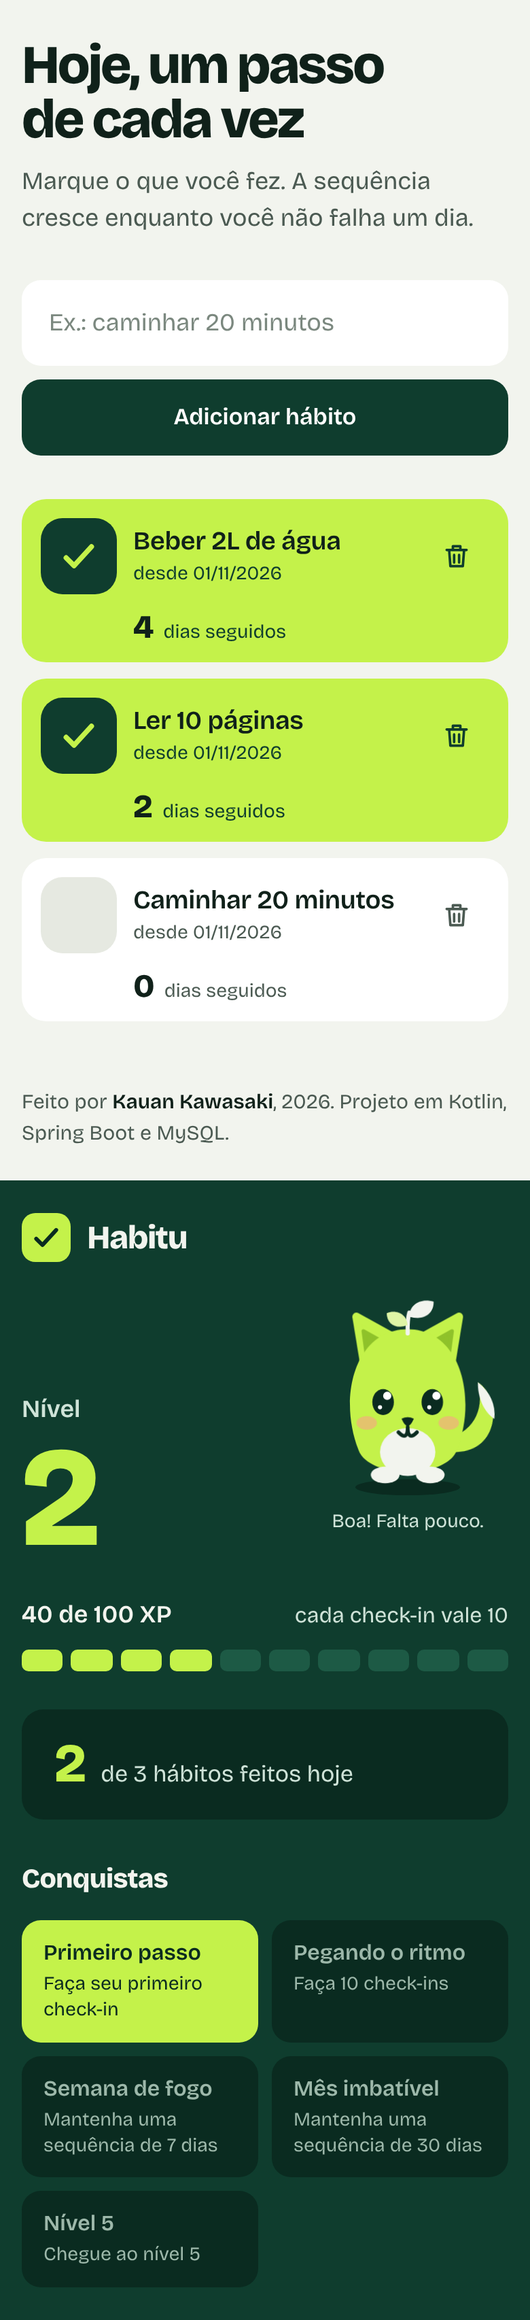
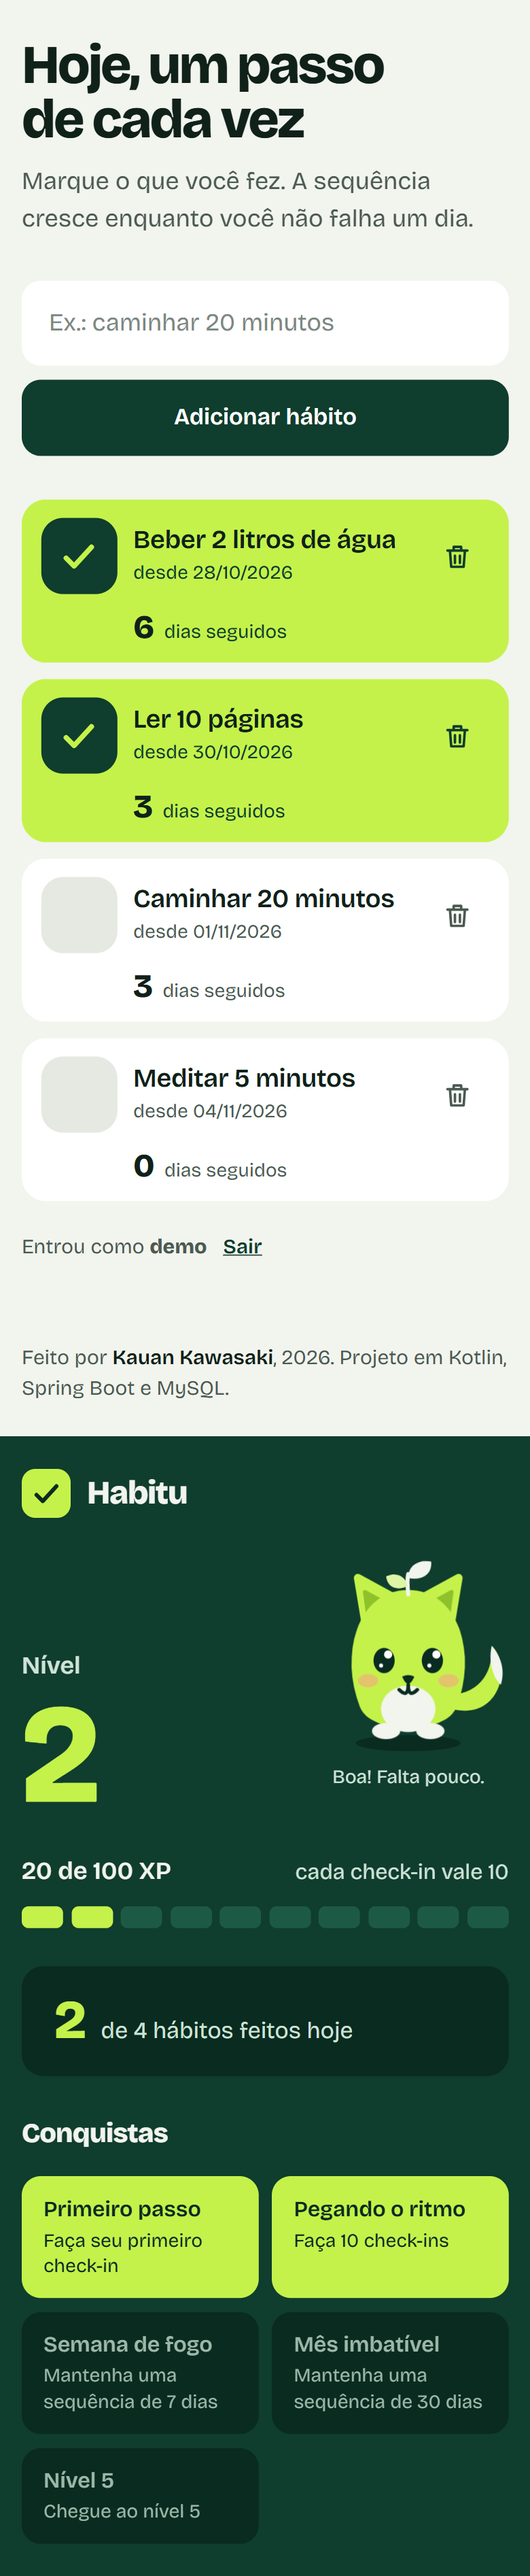
Atualiza os prints do README com a versao com login
Refaz tela principal, celular e tela vazia no app com conta de exemplo
e adiciona o print da tela de login.

diff --git a/README.md b/README.md
@@ -37,7 +37,11 @@ Ele também pisca, abana o rabo, respira, e as pupilas seguem o mouse. Ao tocar 
 | :---: | :---: |
 | ![Habitu no celular](docs/img/celular.png) | ![Tela vazia](docs/img/tela-vazia.png) |
 
-Os prints são renders da própria interface com dados de exemplo.
+Login (a tela de cadastro segue o mesmo visual):
+
+![Tela de login](docs/img/tela-login.png)
+
+Os prints são da própria interface, com uma conta de exemplo.
 
 ## Tecnologias
 
